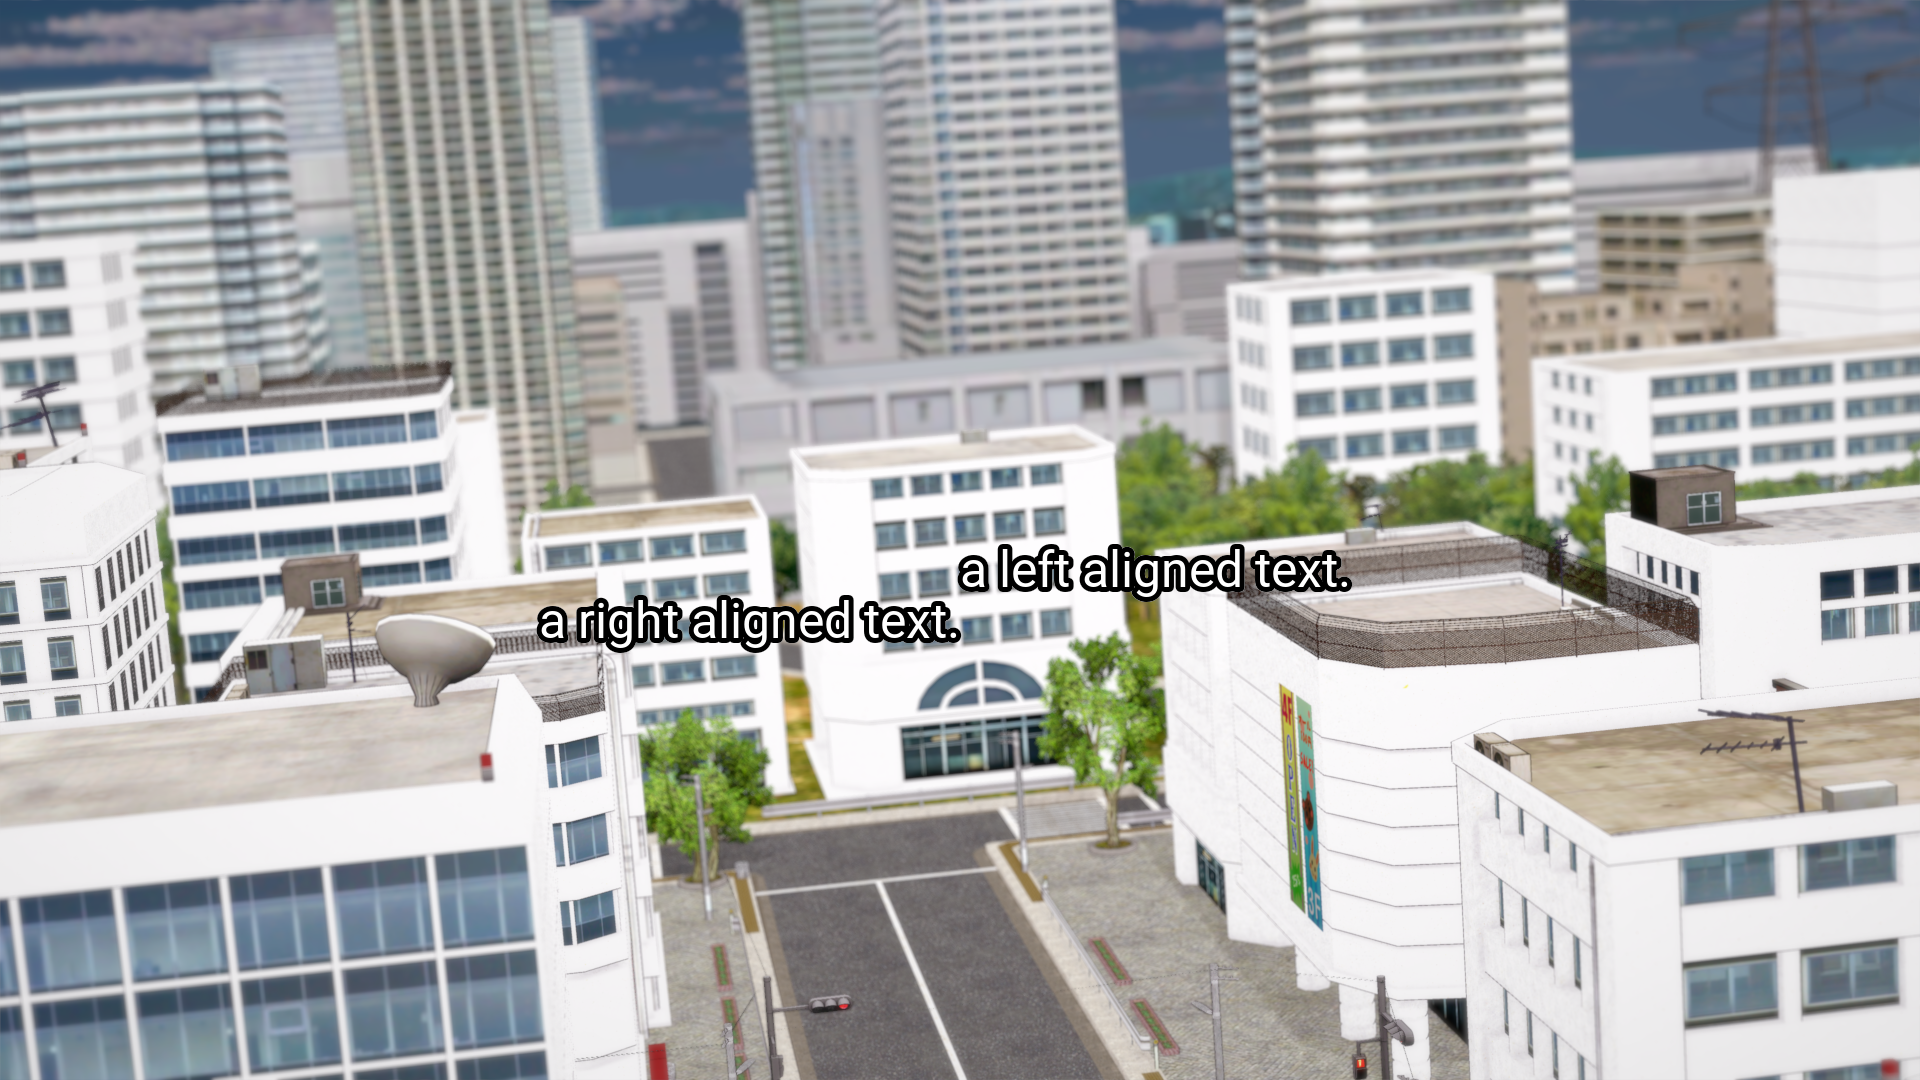
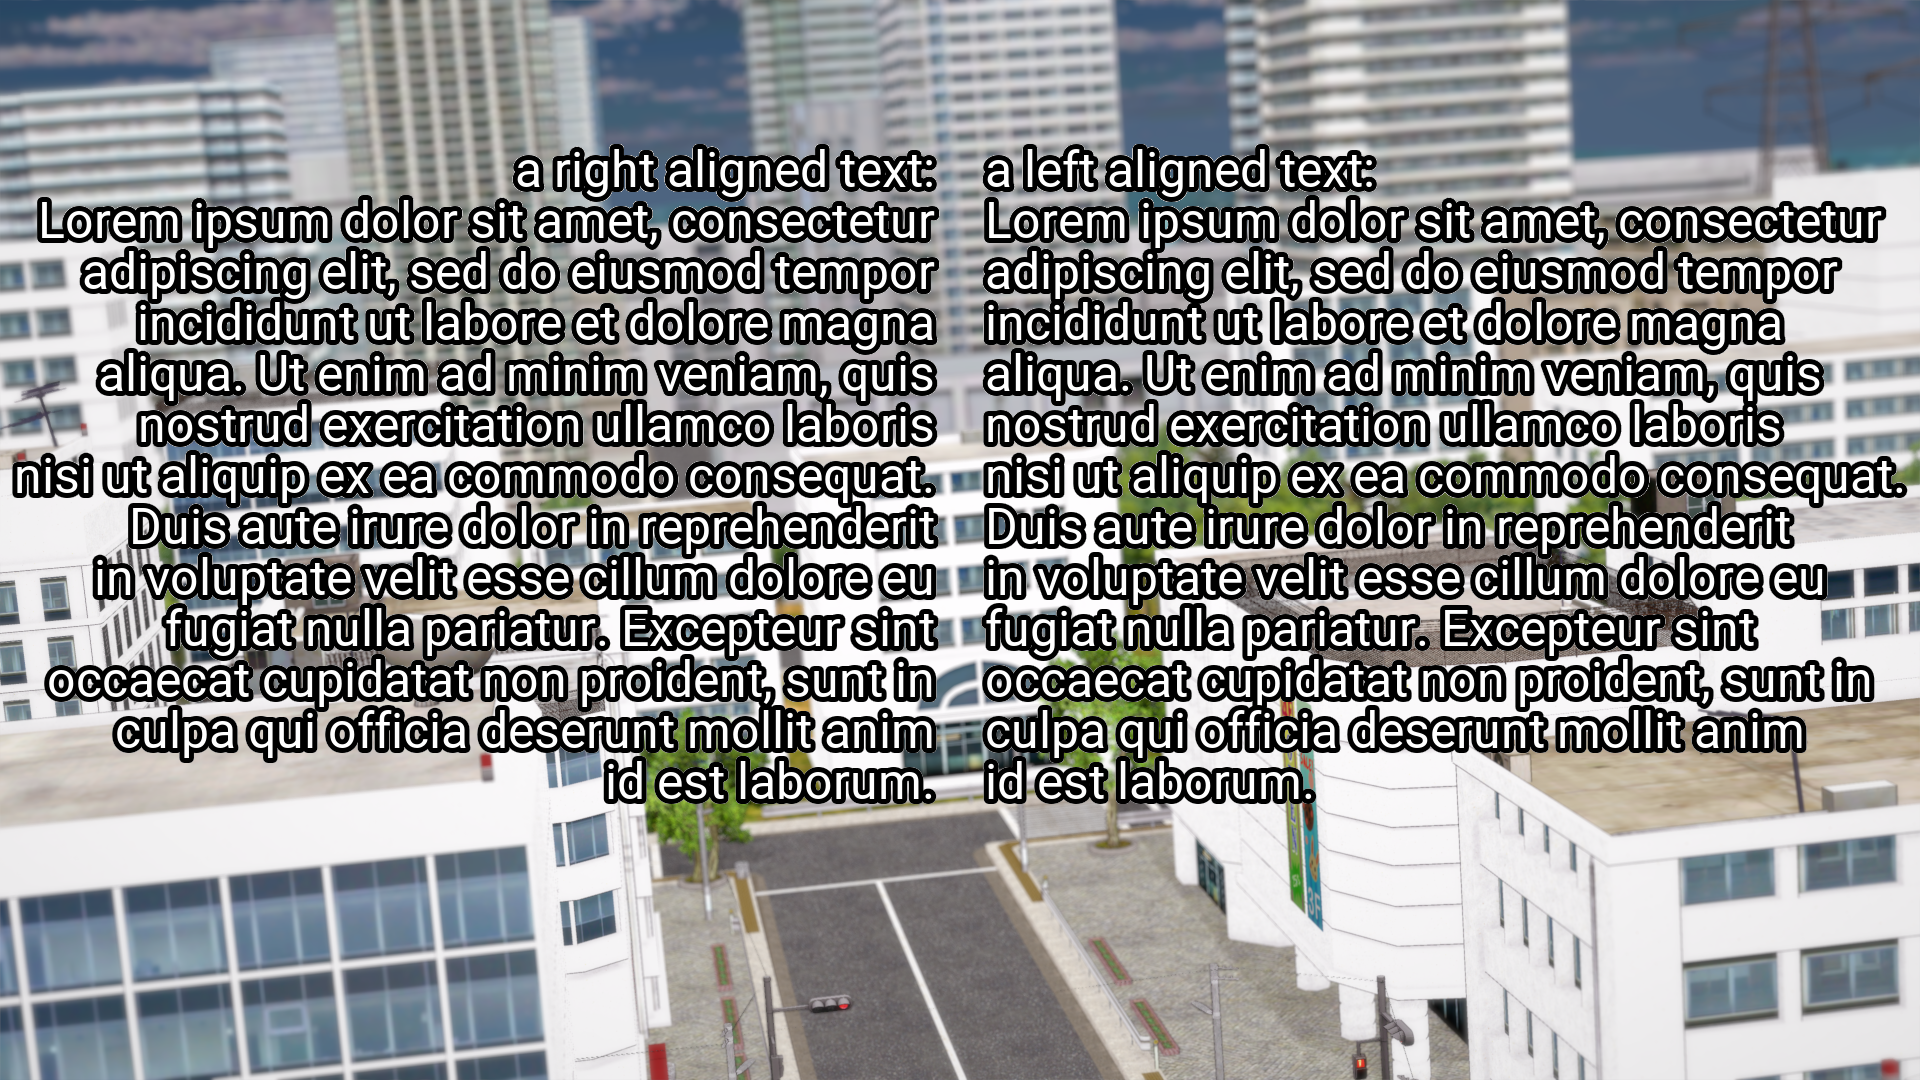
fix text bug, add tests

diff --git a/src/kksubs/model/converters.py b/src/kksubs/model/converters.py
@@ -253,16 +253,11 @@ def _add_text_data_to_subtitle(subtitle: Subtitle, line:str) -> Subtitle:
         return subtitle
     raise
 
-
-def _get_subtitle_groups_from_text(textpath, subtitle_profiles:Optional[Dict[str, SubtitleProfile]]=None, default_profile_id:str=None) -> Dict[str, SubtitleGroup]:
-    # limited functionality for text files. possibly more buggy.
-
+def _get_subtitle_groups_from_textstring(textstring:str, subtitle_profiles:Optional[Dict[str, SubtitleProfile]]=None, default_profile_id:str=None) -> Dict[str, SubtitleGroup]:
     # to prevent repetition and overriding existing subtitles, send the user warnings when there are dupe image IDs.
     image_id_to_line_number = dict()
-
-    with open(textpath, "r", encoding="utf-8") as reader:
-        lines = reader.read().split("\n")
-
+    
+    lines = textstring.split("\n")
     subtitle_groups_by_path = dict()
 
     subtitle_group = SubtitleGroup(subtitle_list=[])
@@ -304,8 +299,10 @@ def _get_subtitle_groups_from_text(textpath, subtitle_profiles:Optional[Dict[str
             if line == "":
                 is_empty = True
                 empty_strings.append(line)
-                if i+1<len(lines) and (lines[i+1].startswith("content:") or lines[i+1].startswith("image_id:")):
-                    empty_strings = []
+                if i+1<len(lines):
+                    data_type, feature, value = _get_profile_data_type_feature_and_value(lines[i+1])
+                    if data_type is not None or lines[i+1].startswith("content:") or lines[i+1].startswith("image_id:"):
+                        empty_strings = []
             else:
                 if is_empty:
                     subtitle.content.extend(empty_strings)
@@ -352,6 +349,12 @@ def _get_subtitle_groups_from_text(textpath, subtitle_profiles:Optional[Dict[str
         pass
 
     return subtitle_groups_by_path
+
+def _get_subtitle_groups_from_text(textpath, subtitle_profiles:Optional[Dict[str, SubtitleProfile]]=None, default_profile_id:str=None) -> Dict[str, SubtitleGroup]:
+    # limited functionality for text files. possibly more buggy.
+    with open(textpath, "r", encoding="utf-8") as reader:
+        textstring = reader.read()
+    return _get_subtitle_groups_from_textstring(textstring, subtitle_profiles=subtitle_profiles, default_profile_id=default_profile_id)
 
 
 def get_subtitle_groups_by_textpath(textpath, subtitle_profiles:Optional[Dict[str, SubtitleProfile]]=None, default_profile_id:str=None) -> Dict[str, SubtitleGroup]:

diff --git a/src/kksubs/model/validate.py b/src/kksubs/model/validate.py
@@ -2,7 +2,7 @@
 
 import os
 from typing import List
-from kksubs.model.domain_models import FontData, OutlineData, Subtitle, SubtitleGroup, SubtitleProfile
+from kksubs.model.domain_models import FontData, OutlineData, Subtitle, SubtitleGroup, SubtitleProfile, TextboxData
 
 def _validate_font_data(font_data:FontData):
     if font_data is None:
@@ -20,6 +20,12 @@ def _validate_outline_data(outline_data:OutlineData):
     if not isinstance(outline_data.radius, int):
         raise TypeError(f"{outline_data.radius} is a {type(outline_data.radius)}")
 
+def _validate_textbox_data(textbox_data:TextboxData):
+    if not isinstance(textbox_data.alignment, str):
+        raise TypeError
+    if not isinstance(textbox_data.box_width, int):
+        raise TypeError(f"Textbox width {textbox_data.box_width} is of type {type(textbox_data.box_width)}, not int.")
+
 def _validate_subtitle_profile(subtitle_profile:SubtitleProfile) -> None:
     if subtitle_profile.font_data is None:
         raise AttributeError
@@ -34,6 +40,10 @@ def _validate_subtitle_profile(subtitle_profile:SubtitleProfile) -> None:
         pass
     else:
         _validate_outline_data(subtitle_profile.outline_data_2)
+    if subtitle_profile.textbox_data is None:
+        raise NotImplementedError("Subtitle profile has no textbox data.")
+    else:
+        _validate_textbox_data(subtitle_profile.textbox_data)
     pass
 
 def _validate_subtitle_list(subtitle_list:List[Subtitle]) -> None:

diff --git a/src/kksubs/model/domain_models.py b/src/kksubs/model/domain_models.py
@@ -215,14 +215,22 @@ class TextboxData(BaseData):
 
     def correct_values(self):
         if self.anchor_point is not None:
-            if isinstance(self.anchor_point, str):
+            if isinstance(self.anchor_point, tuple):
+                pass
+            elif isinstance(self.anchor_point, str):
                 self.anchor_point = tuple(map(int, self.anchor_point[1:-1].split(",")))
             elif isinstance(self.anchor_point, list):
                 self.anchor_point = (int(self.anchor_point[0]), int(self.anchor_point[1]))
-            elif isinstance(self.anchor_point, tuple):
-                pass
             else:
                 raise TypeError(f"Anchor point has invalid type: {self.anchor_point} is of type {type(self.anchor_point)}.")
+        if self.box_width is not None:
+            if isinstance(self.box_width, int):
+                pass
+            elif isinstance(self.box_width, str):
+                self.box_width = int(self.box_width)
+            else:
+                raise TypeError(f"Box width has invalid type: {self.box_width} is of type {type(self.box_width)}")
+
 
     @classmethod
     def get_default(cls):

diff --git a/test/test_subtitles.py b/test/test_subtitles.py
@@ -1,0 +1,17 @@
+import unittest
+
+from kksubs.model.converters import _get_subtitle_groups_from_textstring
+
+class TestSubtitles(unittest.TestCase):
+
+    def test_subtitles(self):
+        
+        content_1 = "First line"
+        content_2 = "Second line\n\nSome stuff"
+        test_string = f"image_id: 1.png\ncontent: {content_1}\n\ntextbox_data.alignment: left\ncontent: {content_2}"
+        subtitle_groups = _get_subtitle_groups_from_textstring(test_string)
+        first_image_subtitle_group = subtitle_groups['1.png']
+        self.assertListEqual(first_image_subtitle_group.subtitle_list[0].content, content_1.split("\n"))
+        self.assertListEqual(first_image_subtitle_group.subtitle_list[1].content, content_2.split("\n"))
+
+    pass
